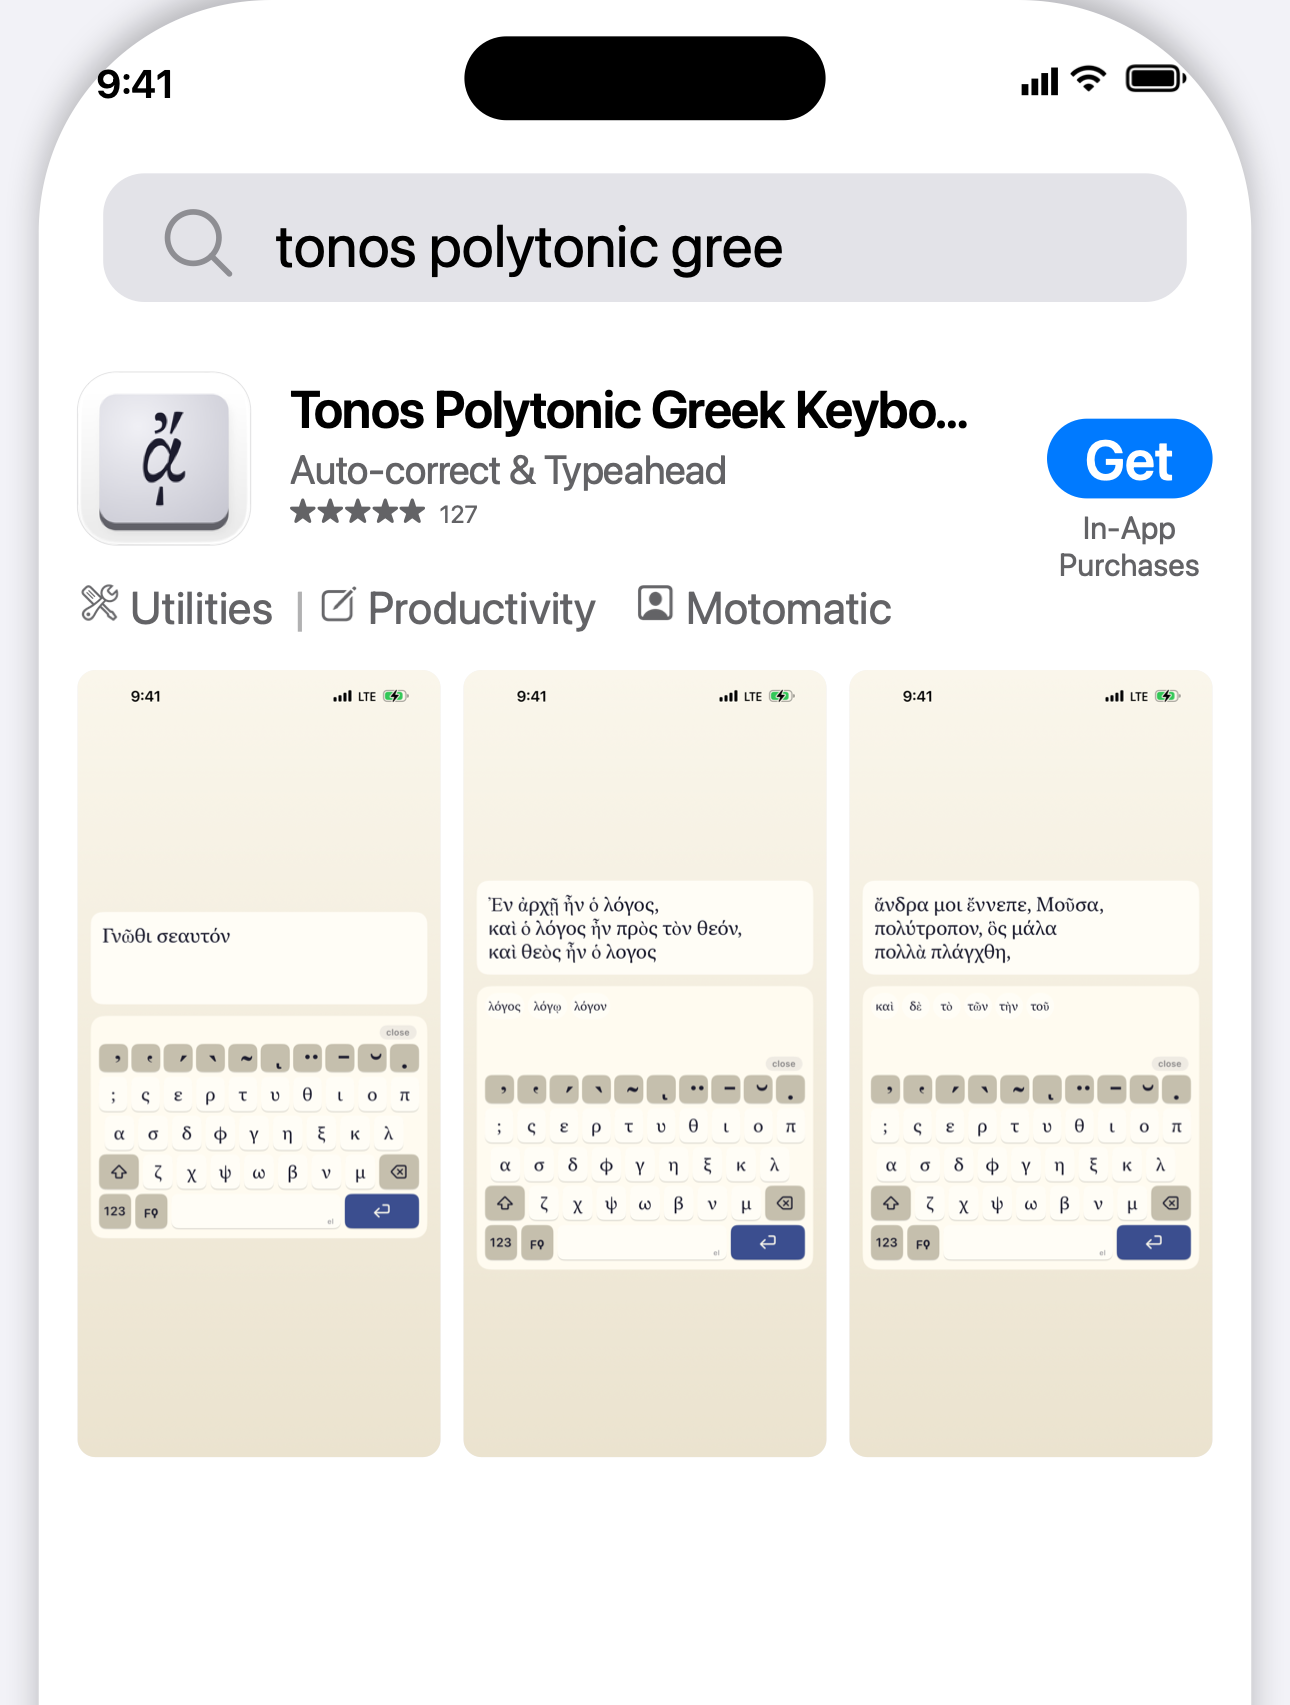
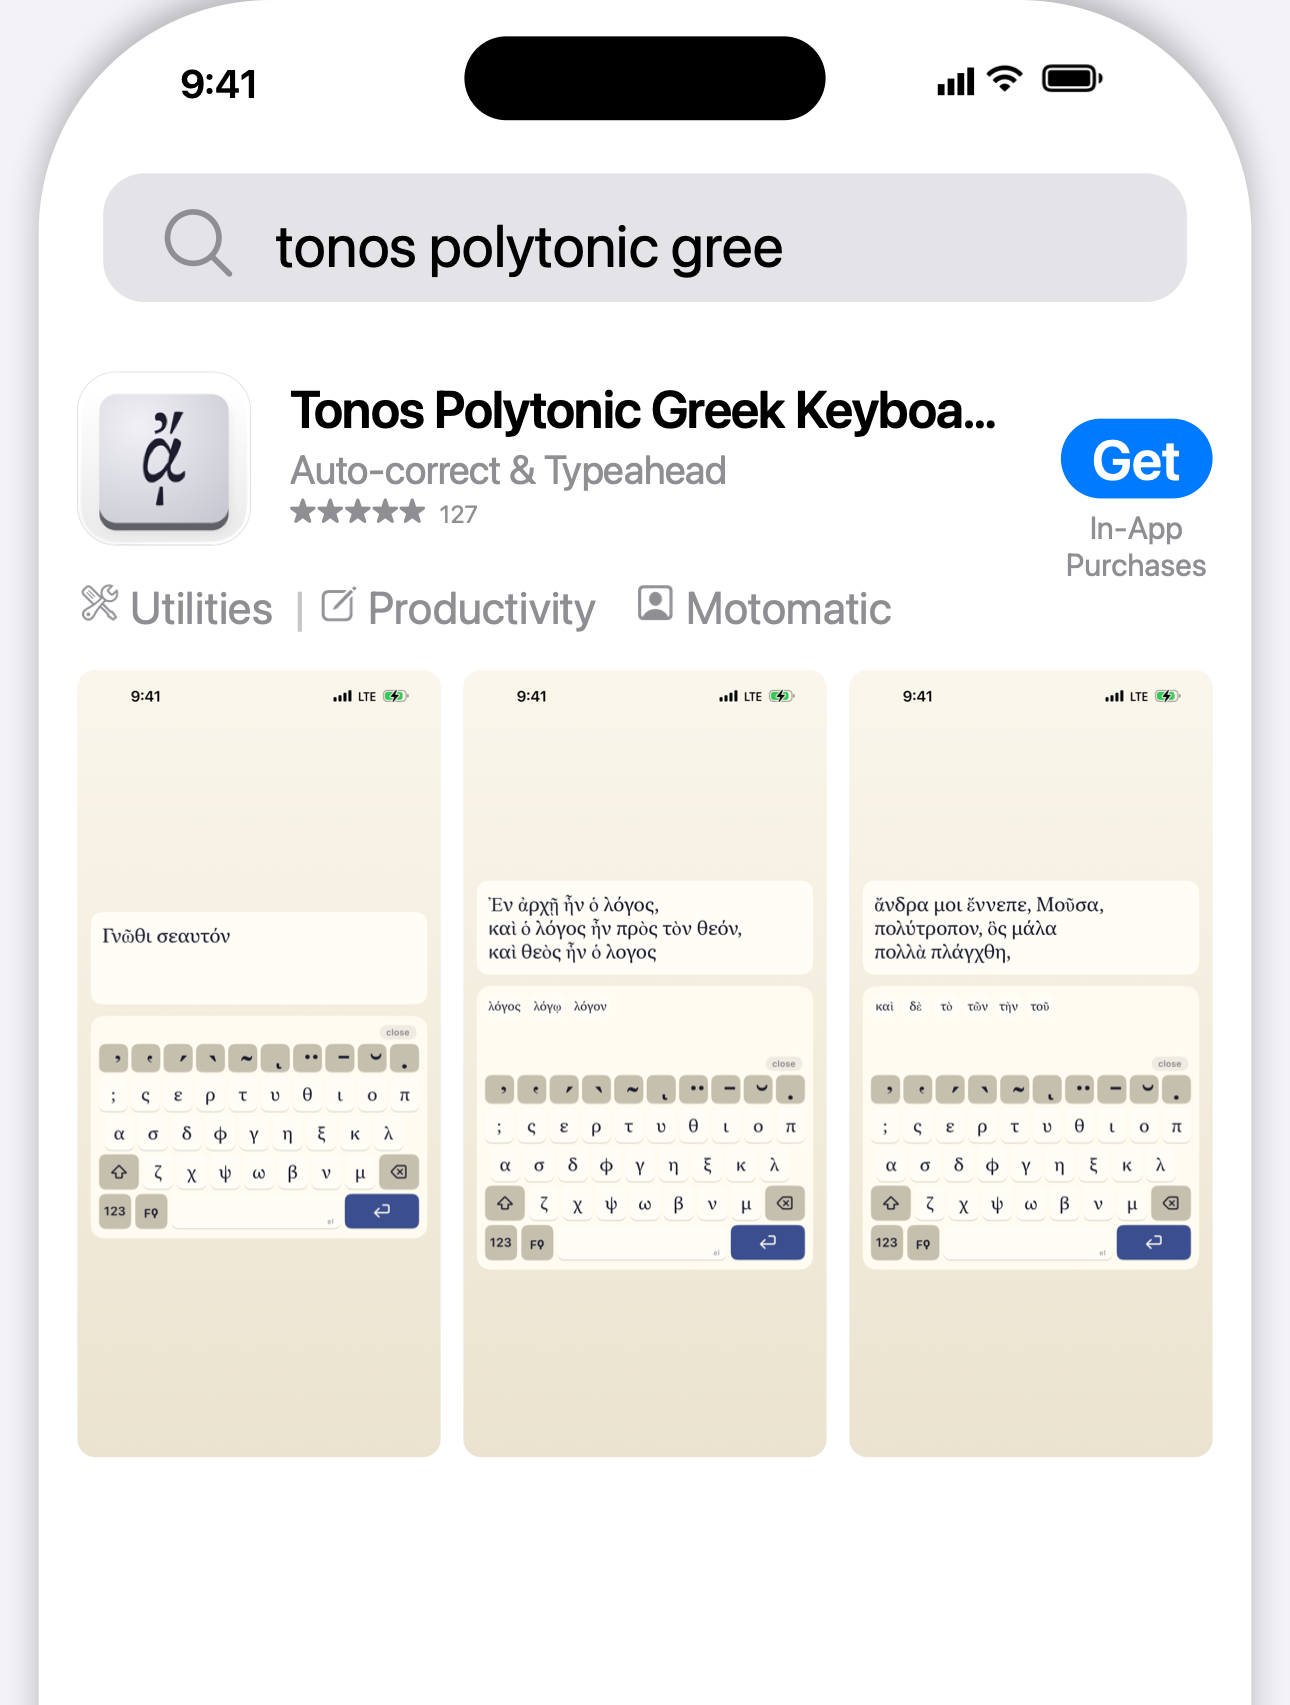
v3.3.2: status bar inside bezel, monochrome SF Symbols, tighter Get pill
Status bar:
- Time + signal cluster moved inward (0.14 / 0.86 from edges) so the
  rounded bezel corners don't clip them. Previously at 0.075 / 0.925
  which fell outside the bezel curve at the top status bar y-range.

Glyph rendering:
- drawSymbol now applies `preferringMonochrome()` before the palette
  tint, so multilayer symbols (iphone, ipad, etc.) collapse to a single
  solid color in the requested tint instead of using their default
  multi-tone variants.

Action button:
- Detail-page Get pill: padding 40% -> 22% of icon size; min width
  140% -> 95%. Pill now sizes to the label instead of having uniform
  large width.
- Search-row Get pill: padding 22% -> 18%; min width 95% -> 80%.

Subtitles + secondary text:
- Light-mode secondaryText 0x636366 -> 0x8E8E93 (iOS systemGray2).
  Brings subtitle, stars, meta row, version meta in line with the
  lighter App Store gray.

What's New body font: 1.55% -> 1.75% of canvas height (slightly
bigger so the release-notes text reads at the right weight).

diff --git a/Sources/StorescreensCore/Render/SearchPreview/SearchPreviewRenderer.swift b/Sources/StorescreensCore/Render/SearchPreview/SearchPreviewRenderer.swift
@@ -398,8 +398,8 @@ package struct SearchPreviewRenderer {
         let actionLabel = Self.actionLabel(input.action, price: input.priceLabel)
         let actionFont = systemFont(size: iconSize * 0.20, weight: .semibold)
         let actionTextWidth = measureText(actionLabel, font: actionFont)
-        let actionPadX = iconSize * 0.40
-        let actionWidth = max(iconSize * 1.4, actionTextWidth + 2 * actionPadX)
+        let actionPadX = iconSize * 0.22
+        let actionWidth = max(iconSize * 0.95, actionTextWidth + 2 * actionPadX)
         let actionHeight = iconSize * 0.36
         let actionTopY = subTopY + subLineHeight + iconSize * 0.08
         let actionRect = CGRect(
@@ -562,7 +562,7 @@ package struct SearchPreviewRenderer {
 
         let headerFont = systemFont(size: canvas.height * 0.020, weight: .bold)
         let metaFont = systemFont(size: canvas.height * 0.013, weight: .regular)
-        let bodyFont = systemFont(size: canvas.height * 0.0155, weight: .regular)
+        let bodyFont = systemFont(size: canvas.height * 0.0175, weight: .regular)
         let linkFont = bodyFont
 
         // Header: "What's New" + gray chevron > inline (like iOS detail page).
@@ -689,7 +689,7 @@ package struct SearchPreviewRenderer {
         guard let body = input.descriptionText, !body.isEmpty else { return topY }
         // No "About This App" header — iOS App Store flows the description
         // straight after the Preview screenshots without a section heading.
-        let bodyFont = systemFont(size: canvas.height * 0.0155, weight: .regular)
+        let bodyFont = systemFont(size: canvas.height * 0.0175, weight: .regular)
         return drawTruncatedParagraph(
             into: ctx,
             text: body,
@@ -1005,7 +1005,11 @@ package struct SearchPreviewRenderer {
         ))
         ctx.fillPath()
 
-        // Time (9:41) - far left, vertically centered on the status bar.
+        // Time (9:41) and the right cluster sit inside the bezel's
+        // rounded-corner safe zone — at the very top of the bezel, the
+        // corners curve inward by ~120pt at this canvas scale, so we
+        // inset both glyph groups by ~14% from the canvas edges to keep
+        // them visible.
         let timeFont = systemFont(size: canvas.height * 0.014, weight: .semibold)
         let timeAscent = CGFloat(CTFontGetAscent(timeFont))
         drawText(
@@ -1014,15 +1018,14 @@ package struct SearchPreviewRenderer {
             font: timeFont,
             color: theme.statusBarText,
             topLeft: CGPoint(
-                x: canvas.width * 0.075,
+                x: canvas.width * 0.140,
                 y: statusCenterY - timeAscent * 0.5
             )
         )
 
-        // Right cluster: signal / wifi / battery, far right edge.
         drawStatusRightCluster(
             into: ctx,
-            rightX: canvas.width * 0.925,
+            rightX: canvas.width * 0.860,
             centerY: statusCenterY,
             scale: canvas.height * 0.011,
             theme: theme
@@ -1212,8 +1215,8 @@ package struct SearchPreviewRenderer {
         let actionLabel = Self.actionLabel(input.action, price: input.priceLabel)
         let actionFont = systemFont(size: iconSize * 0.32, weight: .semibold)
         let actionTextWidth = measureText(actionLabel, font: actionFont)
-        let actionPaddingX = iconSize * 0.22
-        let actionWidth = max(iconSize * 0.95, actionTextWidth + 2 * actionPaddingX)
+        let actionPaddingX = iconSize * 0.18
+        let actionWidth = max(iconSize * 0.80, actionTextWidth + 2 * actionPaddingX)
         let actionHeight = iconSize * 0.46
         let actionRect = CGRect(
             x: cardRect.maxX - actionWidth,
@@ -1673,6 +1676,12 @@ package struct SearchPreviewRenderer {
     ) {
         let pointSize = max(rect.height, rect.width)
         var config = NSImage.SymbolConfiguration(pointSize: pointSize, weight: weight)
+        if #available(macOS 14, *) {
+            // Force monochrome rendering so multilayer symbols (e.g. iphone /
+            // ipad with screen + frame layers) collapse to a single solid
+            // color, then tint to the requested color.
+            config = config.applying(NSImage.SymbolConfiguration.preferringMonochrome())
+        }
         if #available(macOS 13, *) {
             config = config.applying(NSImage.SymbolConfiguration(paletteColors: [color]))
         }
@@ -1800,7 +1809,7 @@ extension SearchPreviewRenderer {
                     searchBarText:              NSColor.black,
                     searchBarPlaceholder:       NSColor(hex: 0x8E8E93),
                     primaryText:                NSColor.black,
-                    secondaryText:              NSColor(hex: 0x636366),
+                    secondaryText:              NSColor(hex: 0x8E8E93),
                     iconPlaceholderBackground:  NSColor(hex: 0xF2F2F7),
                     iconPlaceholderText:        NSColor(hex: 0x8E8E93),
                     iconStroke:                 NSColor.black.withAlphaComponent(0.10),
